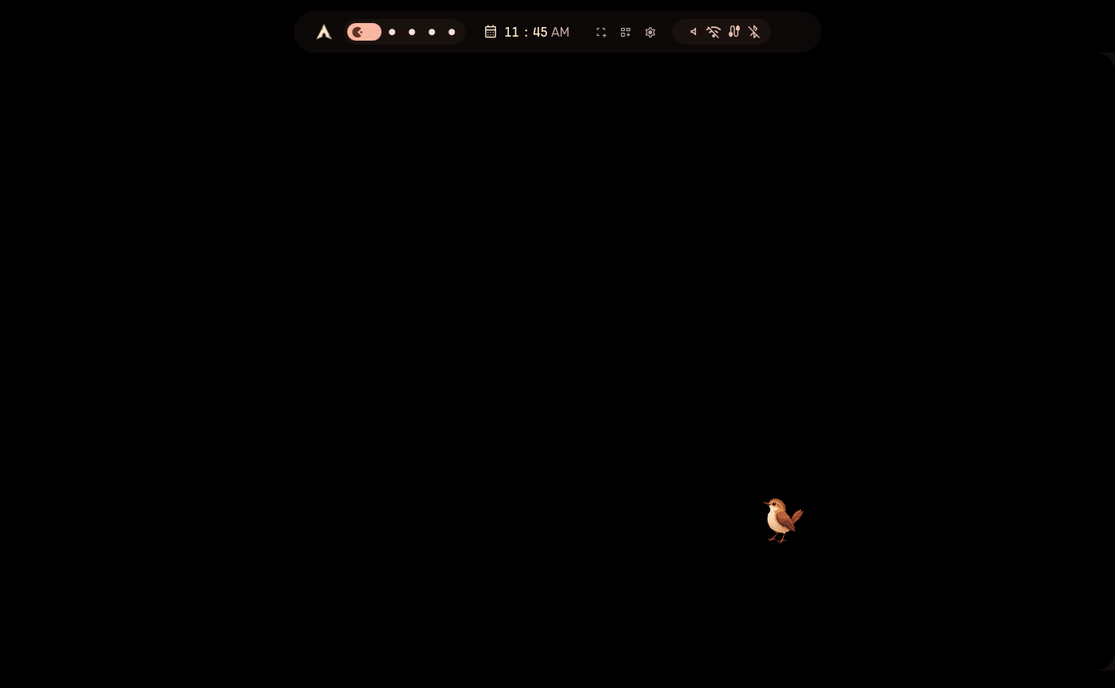
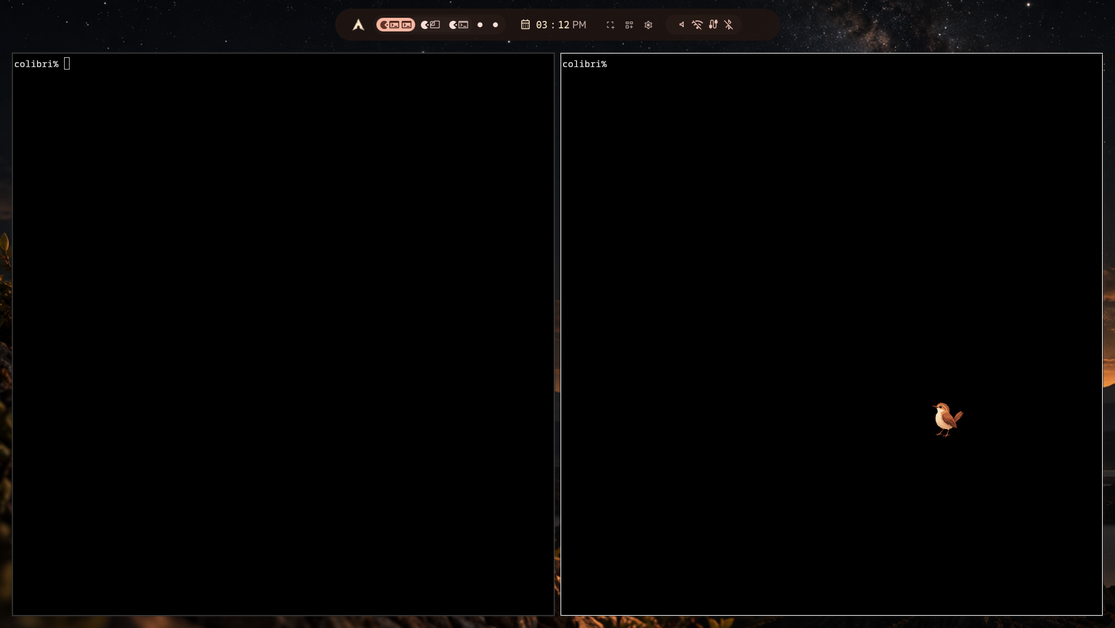
docs(layout): refresh gallery for the backdrop and options change

diff --git a/docs/LAYOUTS.md b/docs/LAYOUTS.md
@@ -156,11 +156,14 @@ preview (primary bar only) keep working. `bar.style` must stay a v1 style
 
 ## Gallery
 
-Captured in nested Hyprland with the welcome window dismissed (PR #88
-evidence; cockpit/islands/cozy-minimal/dock-bottom refreshed for the slim
-bars, scaled to 1115px wide):
+Captured in nested Hyprland with the welcome window dismissed, official
+dark wallpaper, scaled to 1115px wide. Cockpit, Cockpit Clear, Horizon,
+Islands and Cozy Minimal are from the backdrop/options change; Dock Bottom
+and Hornero Left are earlier captures:
 
 - ![Cockpit: inset top bar + attached bottom bar](assets/layouts/cockpit.png)
+- ![Cockpit Clear: both bars clear, labels workspaces](assets/layouts/cockpit-clear.png)
+- ![Horizon: one slab on top, clear workspace line below](assets/layouts/horizon.png)
 - ![Islands: three floating pills](assets/layouts/islands.png)
 - ![Cozy Minimal: floating top ribbon](assets/layouts/cozy-minimal.png)
 - ![Dock Bottom: bottom dock with pinned apps](assets/layouts/dock-bottom.png)
